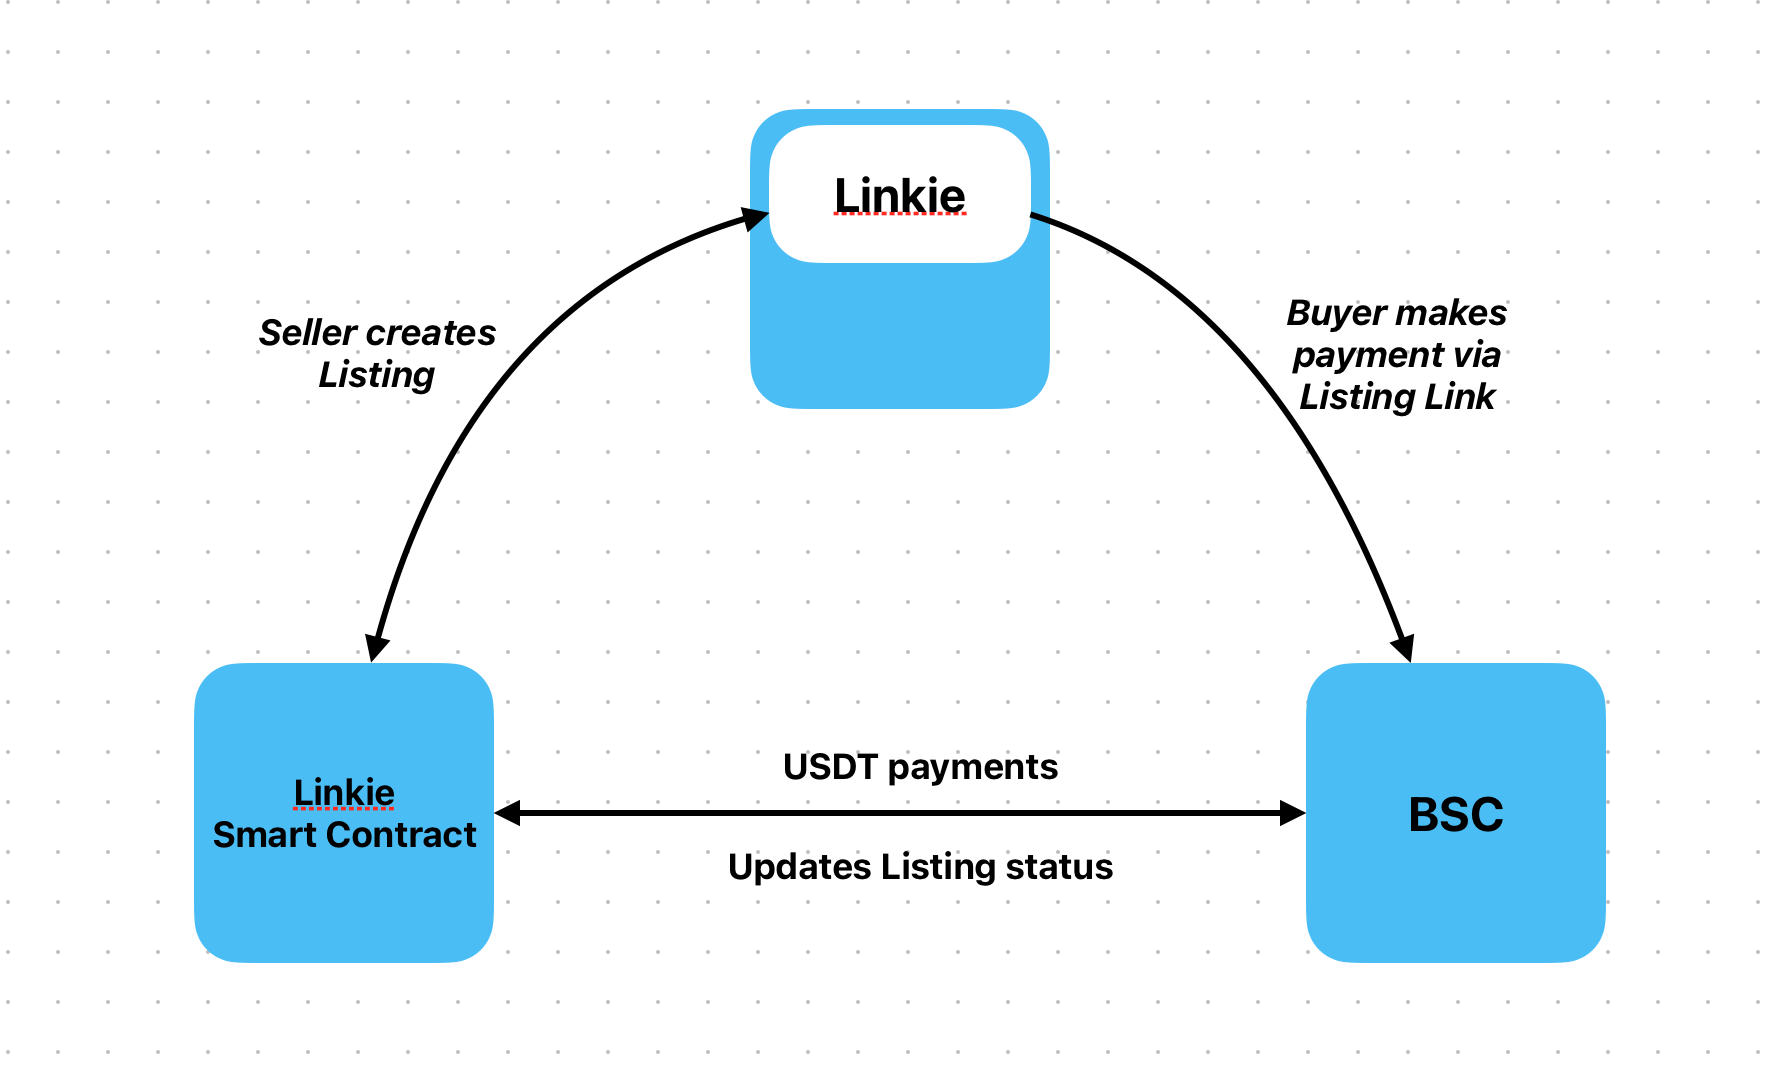
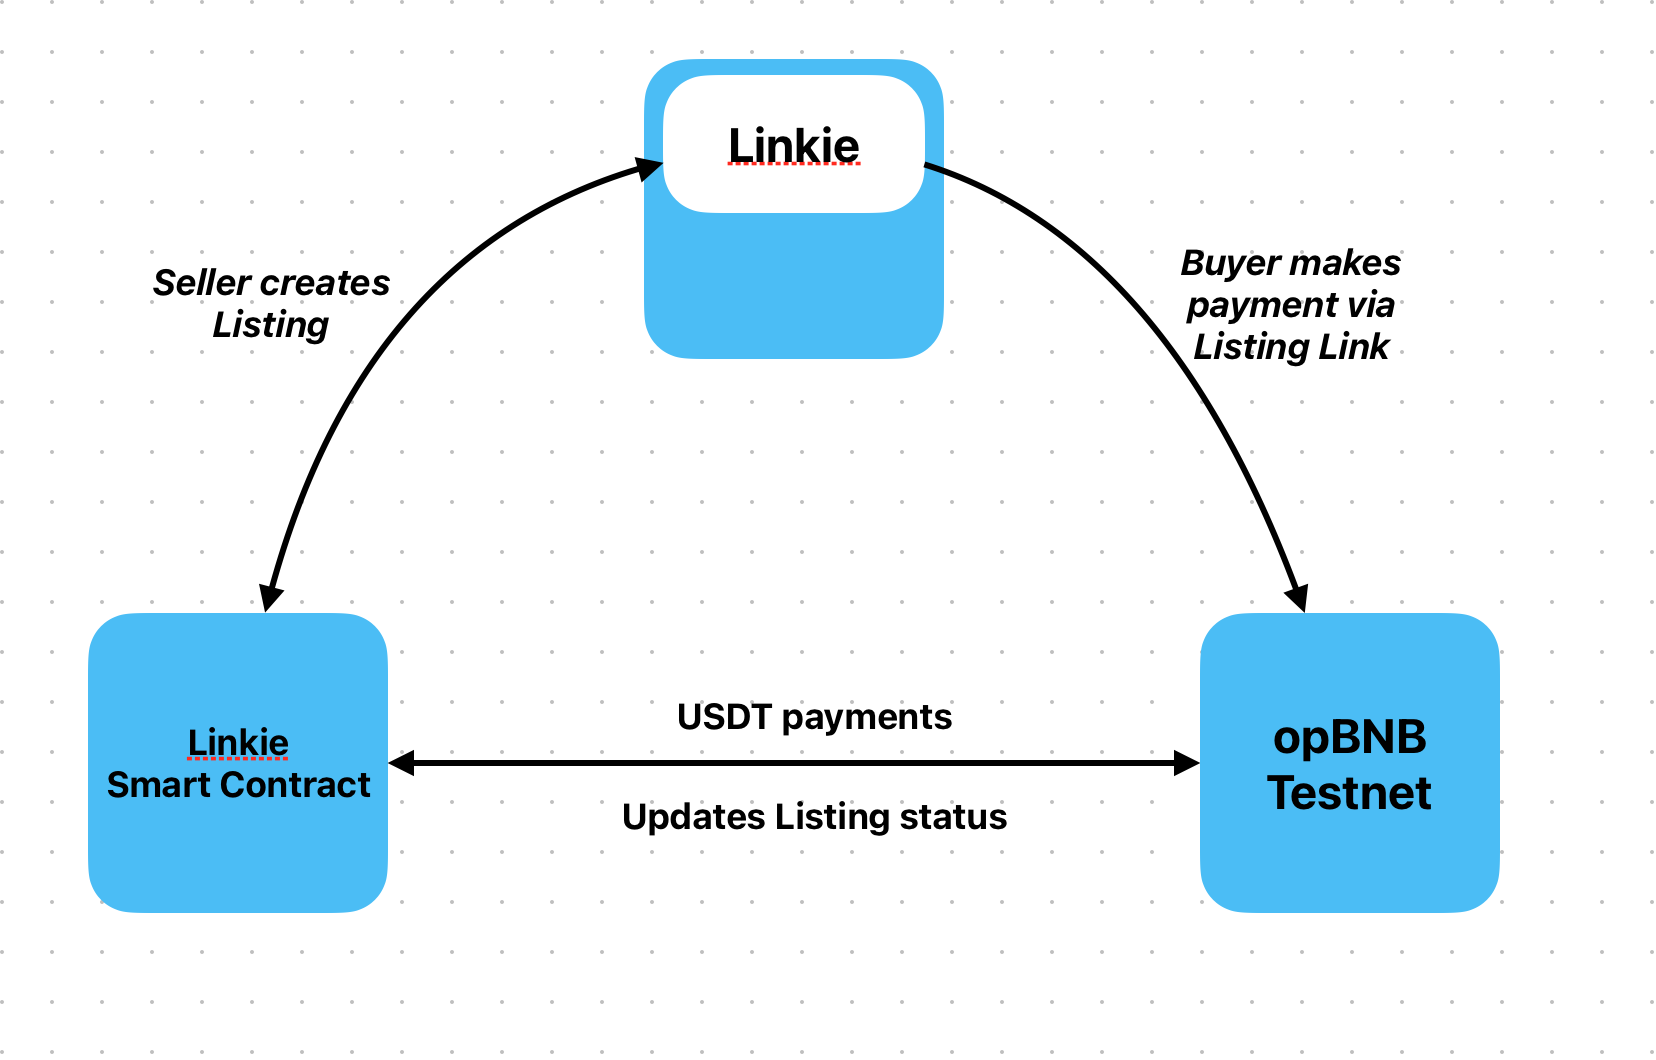
chore: prod bug fix

diff --git a/src/components/AccountCard.tsx b/src/components/AccountCard.tsx
@@ -3,6 +3,7 @@ import { useAccount } from "wagmi";
 import axios from "axios";
 import { useQuery } from "@tanstack/react-query";
 import { Card, CardContent, CardHeader, CardTitle } from "@/components/ui/card";
+import Link from "next/link";
 
 const AccountCard = () => {
   const { address, isConnecting } = useAccount();
@@ -20,14 +21,25 @@ const AccountCard = () => {
 
   return (
     <Card>
-      <CardHeader className="pb-2">
-        <CardTitle className="text-4xl">${total}</CardTitle>
-      </CardHeader>
-      <CardContent>
-        <div className="text-xs text-muted-foreground lg:text-sm">
-          +received so far
+      <div className="flex justify-between items-center">
+        <div>
+          <CardHeader className="pb-2">
+            <CardTitle className="text-4xl">${total}</CardTitle>
+          </CardHeader>
+          <CardContent>
+            <div className="text-xs text-muted-foreground lg:text-sm">
+              +received so far
+            </div>
+          </CardContent>
         </div>
-      </CardContent>
+
+        <Link
+          href="/listings/create"
+          className="w-fit px-4 mr-4 rounded-md py-2 bg-primary text-primary-foreground shadow hover:bg-primary/90 leading-none"
+        >
+          + New Listing
+        </Link>
+      </div>
     </Card>
   );
 };

diff --git a/src/app/(user)/listings/[id]/page.tsx b/src/app/(user)/listings/[id]/page.tsx
@@ -62,7 +62,7 @@ export default function ListingPage({ params }: { params: { id: string } }) {
 
   const copyLink = () => {
     navigator.clipboard
-      .writeText(`https://esypay.vercel.app/p/${params?.id}`)
+      .writeText(`http://localhost:3000/p/${params?.id}`)
       .then(() => {
         toast({
           description: "Listing link copied",
@@ -102,7 +102,7 @@ export default function ListingPage({ params }: { params: { id: string } }) {
                 <DropdownMenuSeparator />
                 <DropdownMenuItem>
                   <a
-                    href={`https://testnet.bscscan.com/tx/${tx}`}
+                    href={`https://testnet.opbnbscan.com/tx/${tx}`}
                     target="_blank"
                   >
                     View Txn{" "}

diff --git a/src/lib/wagmi.ts b/src/lib/wagmi.ts
@@ -1,11 +1,11 @@
 import { getDefaultConfig } from "@rainbow-me/rainbowkit";
-import { bscTestnet } from "wagmi/chains";
+import { opBNBTestnet } from "wagmi/chains";
 
 const projectId = process.env.NEXT_PUBLIC_WC_PROJECT_ID as string;
 
 export const config = getDefaultConfig({
   appName: "Linkie - easy links, fast payment!",
   projectId: projectId,
-  chains: [bscTestnet],
+  chains: [opBNBTestnet],
   ssr: true,
 });

diff --git a/src/app/p/[id]/page.tsx b/src/app/p/[id]/page.tsx
@@ -232,7 +232,7 @@ export default function ListingPage({ params }: { params: { id: string } }) {
           {hash && (
             <small>
               <a
-                href={`https://testnet.bscscan.com/tx/${hash}`}
+                href={`https://testnet.opbnbscan.com/tx/${hash}`}
                 target="_blank"
               >
                 View Txn{" "}

diff --git a/src/constants/linkie.ts b/src/constants/linkie.ts
@@ -1,5 +1,5 @@
 const linkie = {
-  address: "0x925f28Bf3bE04Dd0860a646e815c5300eF4ec718",
+  address: "0x0e1d617a3B4F88d6A26ea85DDe8Aa0dfCfcBcDbe",
   abi: [
     {
       inputs: [

diff --git a/src/constants/usdt.ts b/src/constants/usdt.ts
@@ -1,5 +1,5 @@
 const usdt = {
-  address: "0xB9B43d0E3f69ADa3C34991f53ED92adf75b5793e",
+  address: "0xED3B69917C6ccCFb6Ab8dC2135CD741339A25112",
   abi: [
     {
       inputs: [],
